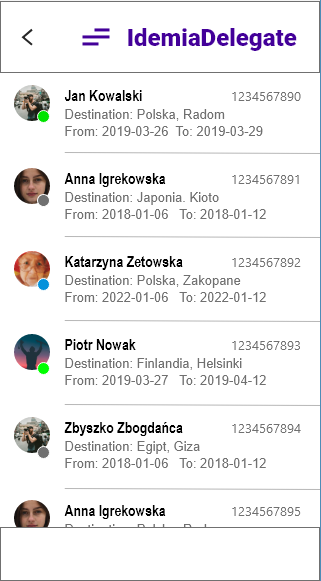
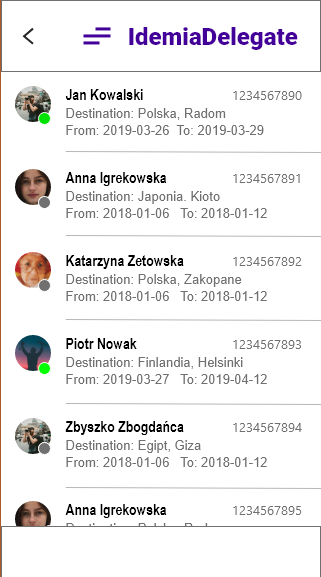
Merge pull request #55 in IP/idemia19 from bugfix/IDEMIA2019-112-get-delegations-fix to master
Squashed commit of the following:

commit 8c8cbe7f3d9f9e9a1968b7e5ec0832945e2cddeb
Author: Krystian Broniarek <210145@edu.p.lodz.pl>
Date:   Sat Apr 6 16:48:43 2019 +0200

    IDEMIA2019-112 get delegations doc and code fix

diff --git a/backend/src/main/java/com/idemia/ip/office/backend/delegation/assistant/delegations/dtos/DelegationDto.java b/backend/src/main/java/com/idemia/ip/office/backend/delegation/assistant/delegations/dtos/DelegationDto.java
@@ -30,17 +30,22 @@ public class DelegationDto extends BaseDto {
     @DateTimeFormat(iso = DATE_TIME)
     @JsonFormat(shape = JsonFormat.Shape.STRING, pattern = "yyyy-MM-dd'T'HH:mm:ss")
     private LocalDateTime startDate;
+
     @NotNull(message = "{error.message.not.null}", groups = OnPost.class)
     @DateTimeFormat(iso = DATE_TIME)
     @JsonFormat(shape = JsonFormat.Shape.STRING, pattern = "yyyy-MM-dd'T'HH:mm:ss")
     private LocalDateTime endDate;
+
     @NotBlank(message = "{error.message.field.not.blank}", groups = OnPost.class)
     @Size(min = 3, max = 3, message = "{error.message.size}")
     private String destinationCountryISO3;
+
     @NotBlank(message = "{error.message.field.not.blank}", groups = OnPost.class)
     private String destinationLocation;
+
     @NotBlank(message = "{error.message.field.not.blank}", groups = OnPost.class)
     private String delegationObjective;
+
     @Null(message = "{error.message.field.blank}", groups = OnPost.class)
     @NotNull(message = "{error.message.not.null}", groups = OnPatch.class)
     private DelegationStatus delegationStatus;

diff --git a/backend/src/main/java/com/idemia/ip/office/backend/delegation/assistant/delegations/controllers/DelegationController.java b/backend/src/main/java/com/idemia/ip/office/backend/delegation/assistant/delegations/controllers/DelegationController.java
@@ -35,6 +35,8 @@ import java.security.Principal;
 import java.time.LocalDateTime;
 import java.util.List;
 
+import static com.idemia.ip.office.backend.delegation.assistant.converters.ByteArrayToStringConverter.byteArrayToStringConverter;
+
 @RestController
 @Validated
 public class DelegationController {
@@ -51,6 +53,7 @@ public class DelegationController {
         this.delegationService = delegationService;
         this.userService = userService;
         this.modelMapper = modelMapper;
+        this.modelMapper.addConverter(byteArrayToStringConverter);
         this.forbiddenExceptionProperties = forbiddenExceptionProperties;
     }
 

diff --git a/backend/src/main/java/com/idemia/ip/office/backend/delegation/assistant/entities/User.java b/backend/src/main/java/com/idemia/ip/office/backend/delegation/assistant/entities/User.java
@@ -10,6 +10,7 @@ import javax.persistence.Entity;
 import javax.persistence.GeneratedValue;
 import javax.persistence.GenerationType;
 import javax.persistence.Id;
+import javax.persistence.Lob;
 
 @Entity
 @Builder
@@ -26,6 +27,21 @@ public class User extends BaseEntity {
     @Getter
     @Setter
     private String login;
+
+    @Column(nullable = false)
+    @Getter
+    @Setter
+    private String firstName;
+
+    @Column(nullable = false)
+    @Getter
+    @Setter
+    private String lastName;
+
+    @Lob
+    @Getter
+    @Setter
+    private byte[] avatar;
 
 
     public User() {

diff --git a/backend/src/main/java/com/idemia/ip/office/backend/delegation/assistant/converters/ByteArrayToStringConverter.java b/backend/src/main/java/com/idemia/ip/office/backend/delegation/assistant/converters/ByteArrayToStringConverter.java
@@ -1,0 +1,12 @@
+package com.idemia.ip.office.backend.delegation.assistant.converters;
+
+import org.modelmapper.Converter;
+
+import java.util.Base64;
+
+public class ByteArrayToStringConverter {
+    public static Converter<byte[], String> byteArrayToStringConverter = context ->
+            context.getSource() == null ? null : Base64
+                    .getEncoder()
+                    .encodeToString(context.getSource());
+}

diff --git a/backend/src/main/java/com/idemia/ip/office/backend/delegation/assistant/delegations/dtos/DelegationUserDto.java b/backend/src/main/java/com/idemia/ip/office/backend/delegation/assistant/delegations/dtos/DelegationUserDto.java
@@ -16,4 +16,10 @@ public class DelegationUserDto {
     private Long id;
 
     private String login;
+
+    private String firstName;
+
+    private String lastName;
+
+    private String avatar;
 }

diff --git a/documentation/DelegationManagement/GetDelegations/GetDelegations.md b/documentation/DelegationManagement/GetDelegations/GetDelegations.md
@@ -1,4 +1,4 @@
-## IDEMIA2019-2 GetMyDelegations
+## IDEMIA2019-26 GetDelegations
 
 ### 1. Diagram Sekwencji
 
@@ -71,7 +71,14 @@ end
     "destinationCountryISO3": "BFA",
     "destinationLocation": "Radom",
     "delegationObjective": "Buy high quality rice",
-    "status": "CREATED"
+    "status": "CREATED",
+    "user": {
+      "id": 1,
+      "login": "amalysz",
+      "firstName": "Adam",
+      "lastName": "Małysz",
+      "avatar": {base64}
+    }
   },
   {
     "id": 2,
@@ -81,7 +88,14 @@ end
     "destinationCountryISO3": "BFA",
     "destinationLocation": "Radom",
     "delegationObjective": "Buy high quality rice",
-    "status": "CREATED"
+    "status": "CREATED",
+    "user": {
+      "id": 1,
+      "login": "amalysz",
+      "firstName": "Adam",
+      "lastName": "Małysz",
+      "avatar": {base64}
+    }
   }
 ]
 ```
@@ -103,6 +117,12 @@ end
 
 ##Systemy mobilne - lista delegacji
 ![Mobile](mockups/allDelegationsMobileList.PNG?raw=true "Mobile List")
+
+###Uwagi
+
+**Kolor zielony** przy zdjęciu oznacza, że delegacja trwa.
+
+**Kolor szary** przyz zdjęciu oznacza, że delegacja została zakończona.
 
 ### 4. Test cases
 
